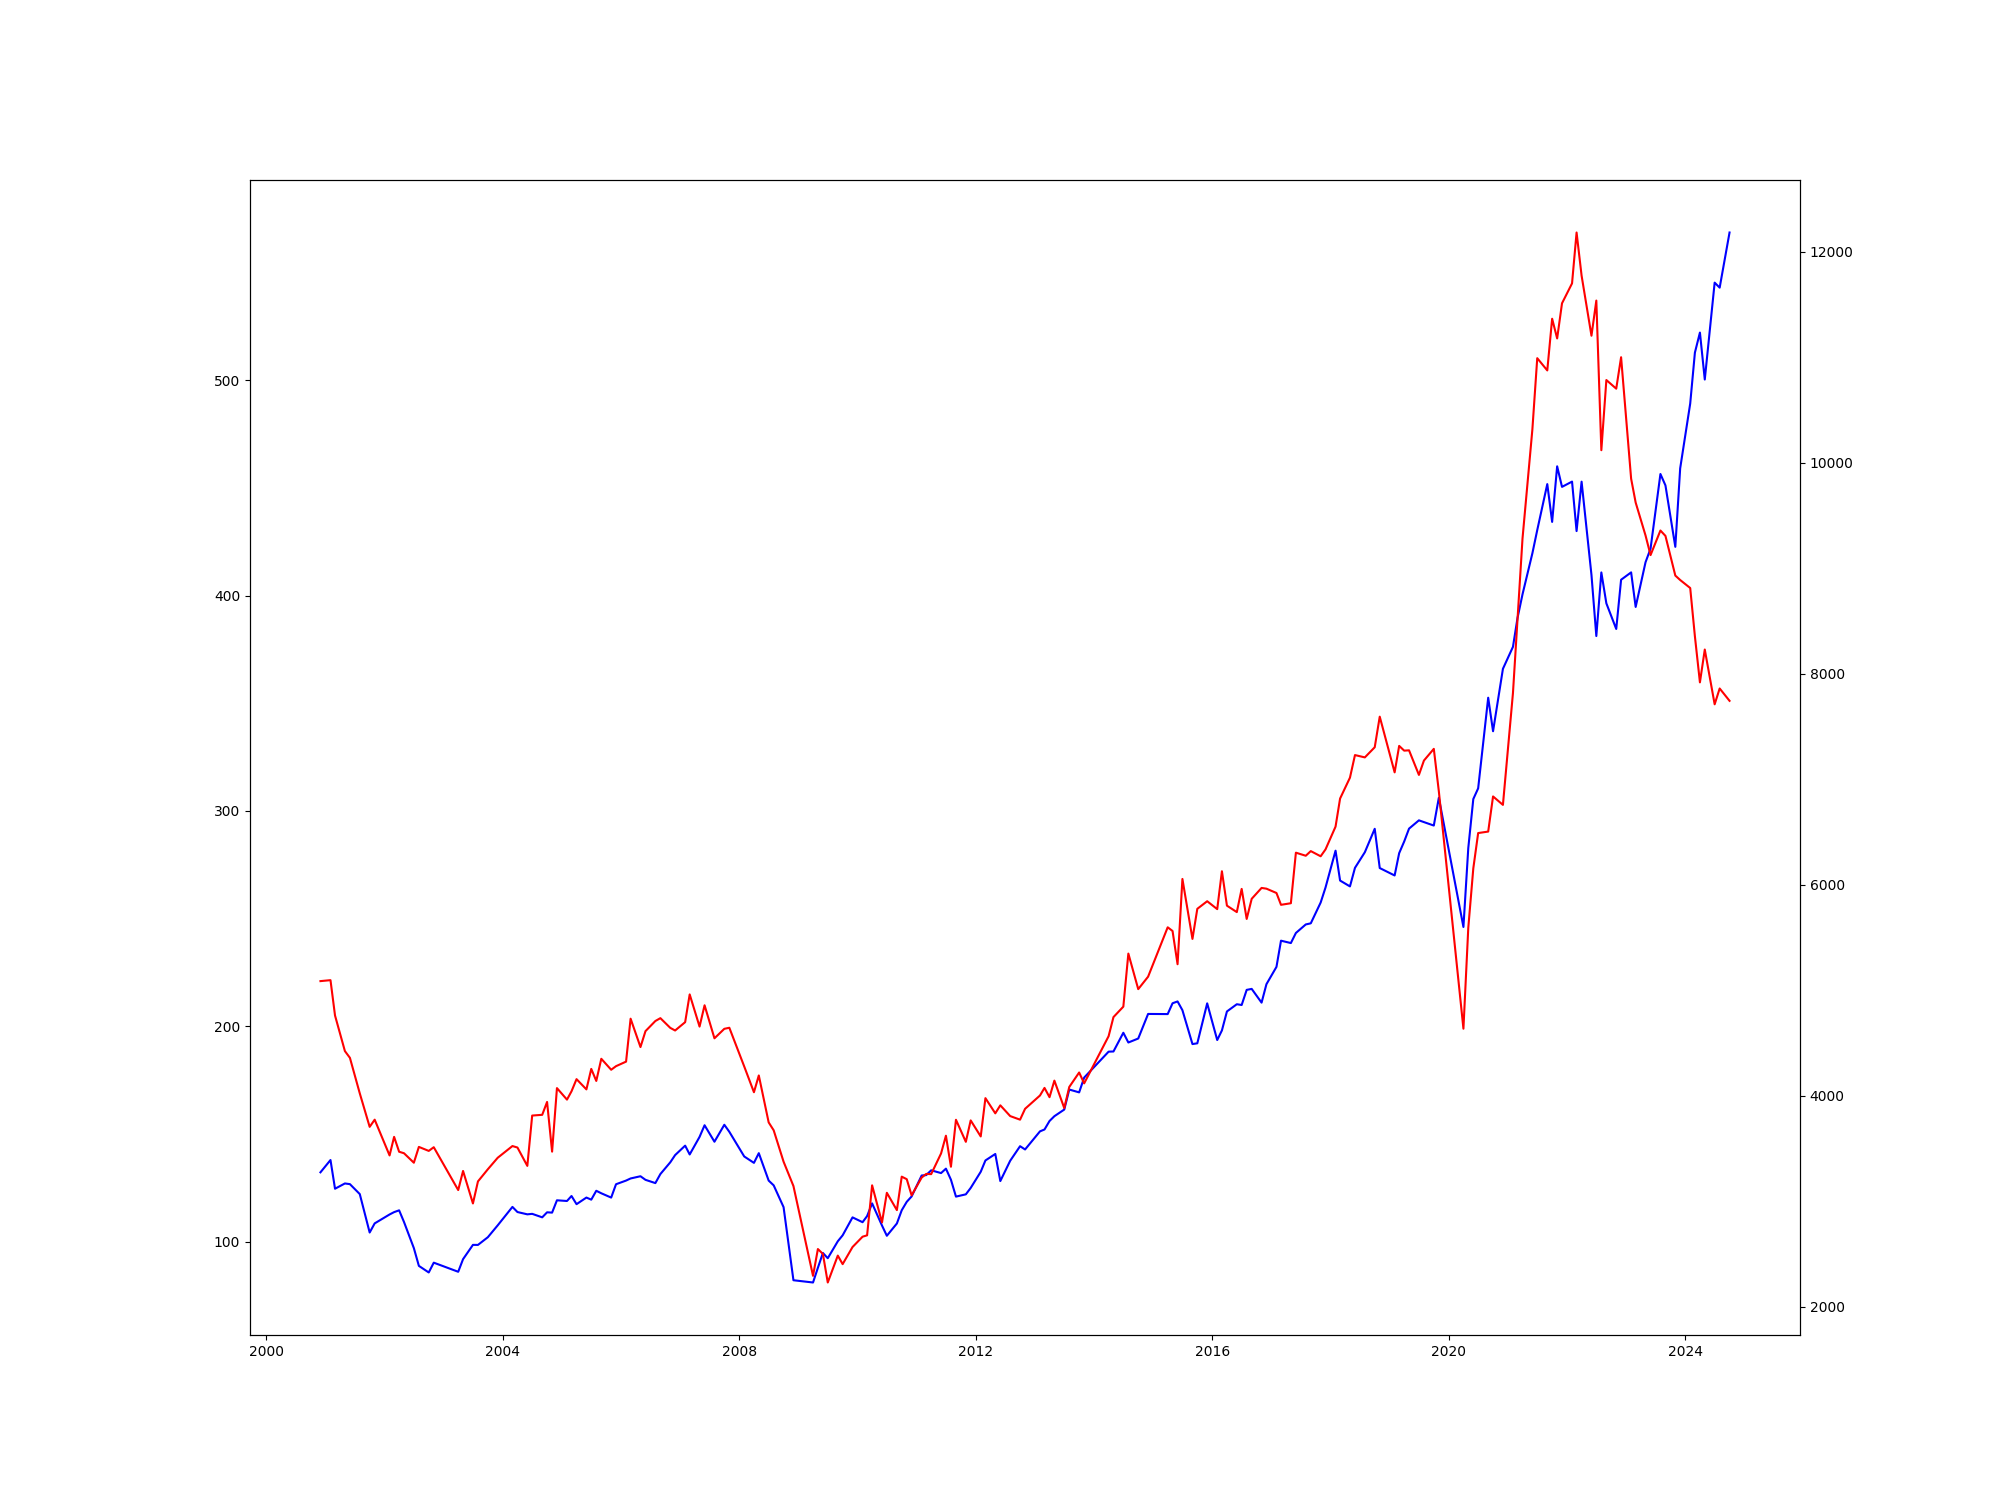
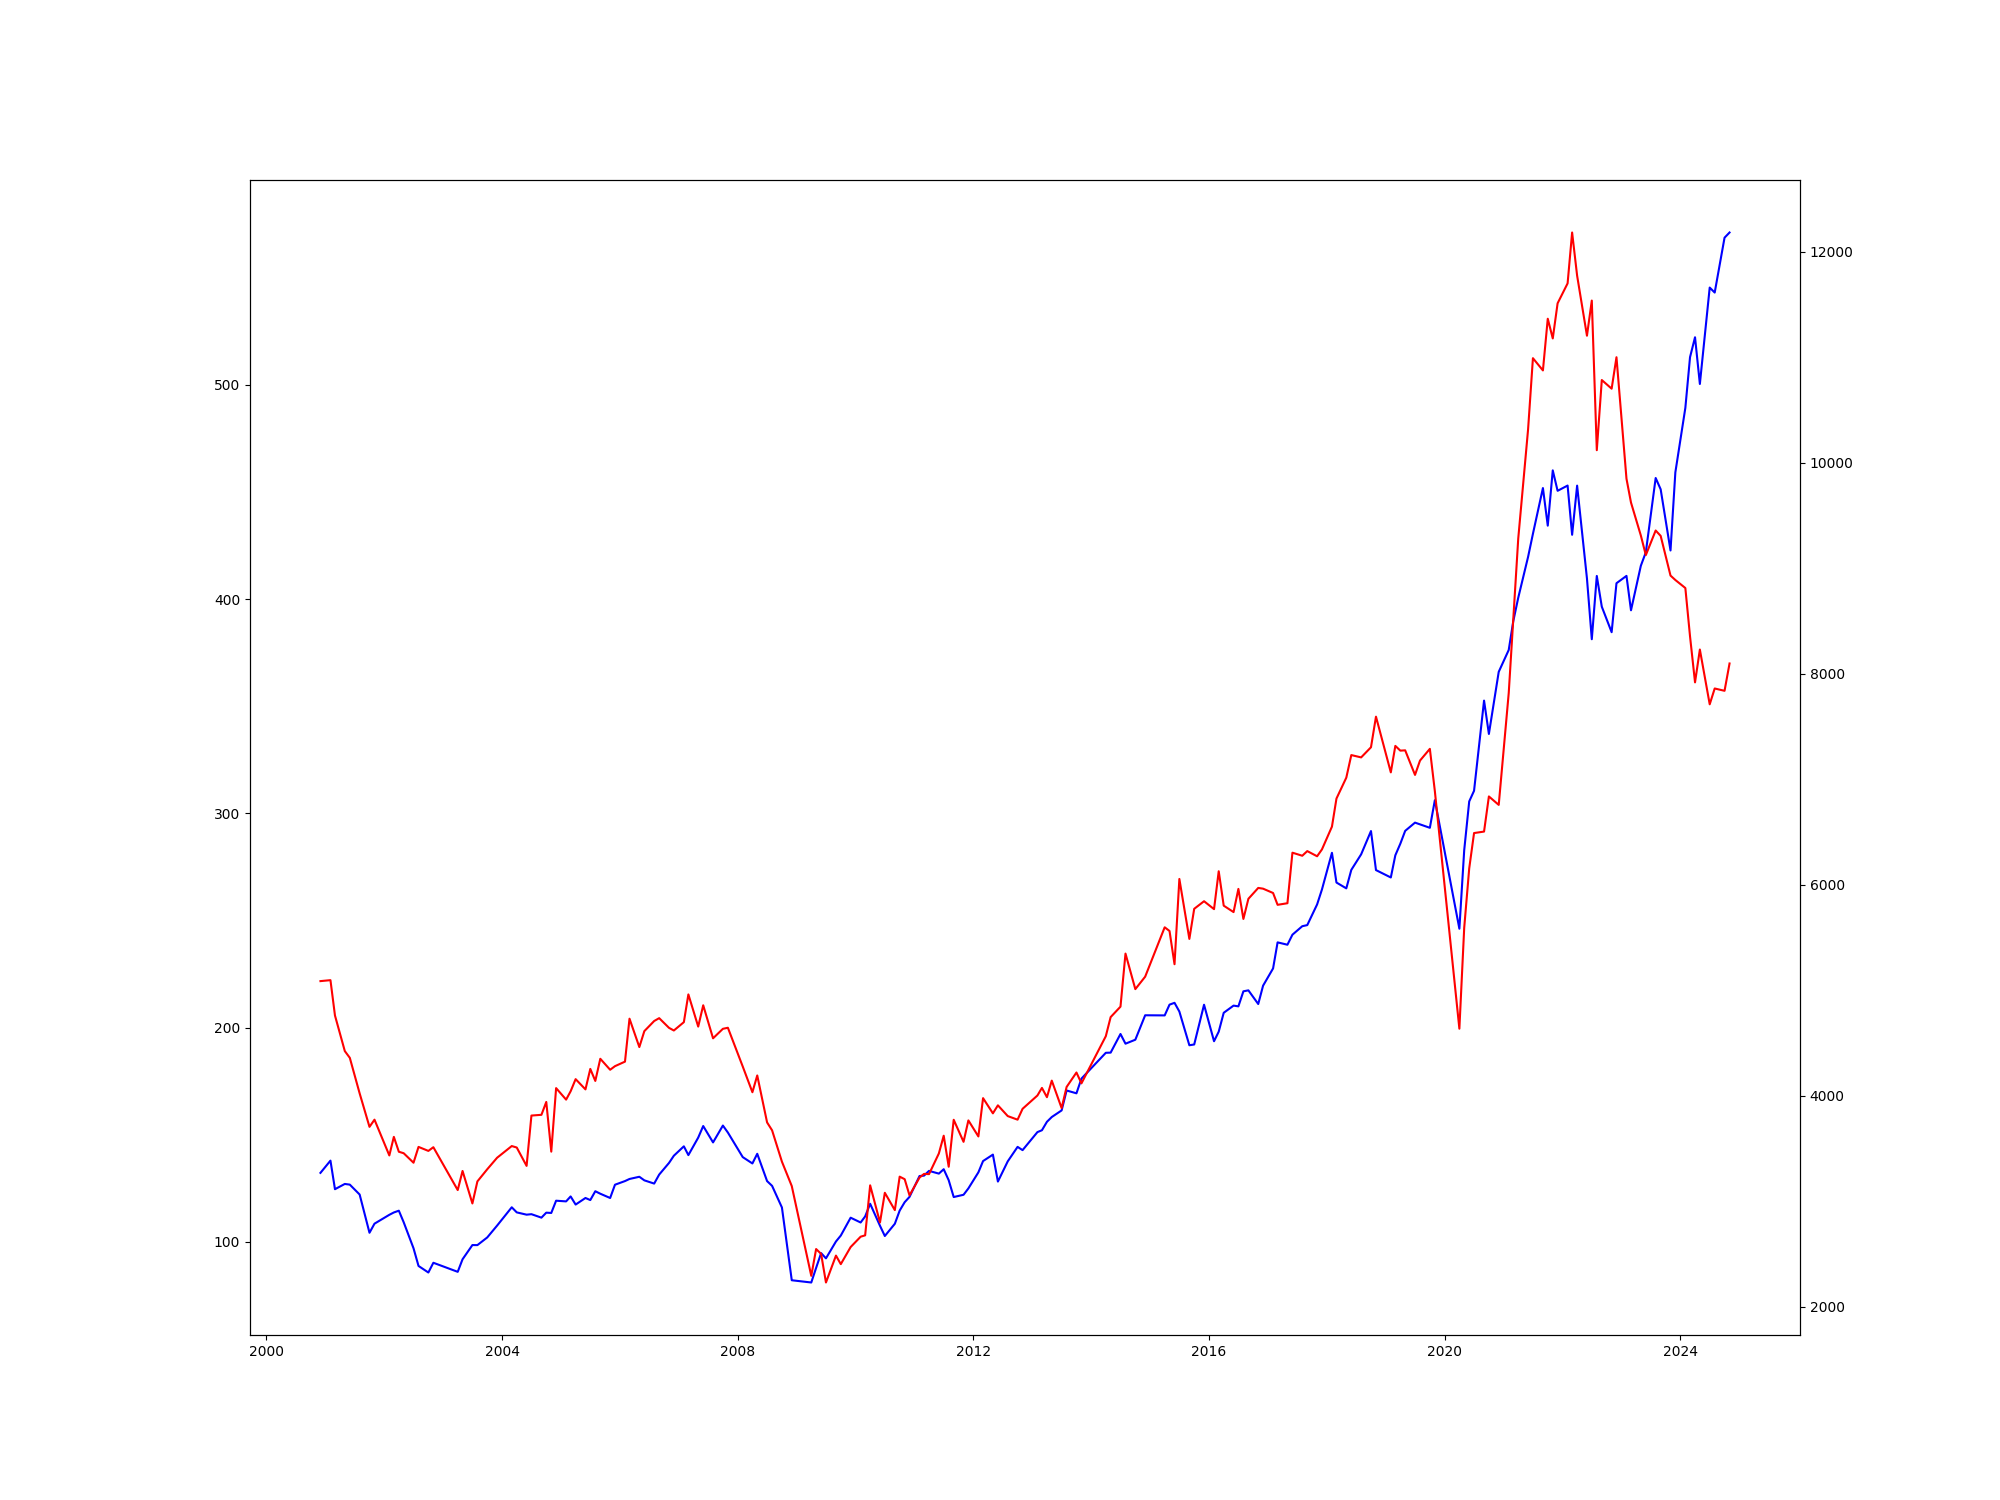
save for logging purpose

diff --git a/short_volume.py b/short_volume.py
@@ -1,0 +1,103 @@
+import os
+import requests
+import json
+import matplotlib.pyplot as plt
+from datetime import datetime, timedelta
+
+import yfinance as yf
+
+DIR_SHORT_VOLUME = "short_volume"
+
+
+def overlap_price_shortvolume(ticker: str, start_date: str, end_date: str):
+    start_date = datetime.strptime(start_date, "%Y%m%d")
+    end_date = datetime.strptime(end_date, "%Y%m%d")
+
+    stock_data = yf.download(ticker, start=start_date, end=end_date)
+    list_date_price = [e.strftime("%Y%m%d") for e in stock_data["Close"].keys()]
+    list_close_price = list(stock_data["Close"].values)
+
+    list_ratio = []
+    list_date = []
+    for date in list_date_price:
+        path_short_volume = os.path.join(DIR_SHORT_VOLUME, f"{date}.txt")
+        if not os.path.exists(path_short_volume):
+            list_ratio.append(-1)
+            list_date.append(date)
+            continue
+
+        with open(path_short_volume) as f:
+            lines = f.readlines()
+
+        for line in lines:
+            chunks = line.split("|")
+            if chunks[1].lower() == ticker.lower():
+                short_volume = chunks[2]
+                total_volume = chunks[4]
+                ratio = 1.0 * float(short_volume) / float(total_volume)
+                break
+
+        list_ratio.append(ratio)
+        list_date.append(date)
+
+    fig, ax1 = plt.subplots()
+
+    ax1.plot(list_date_price, list_close_price, "b-")
+    ax1.set_xlabel("dates")
+    ax1.set_ylabel("price", color="b")
+    ax1.tick_params(axis="y", labelcolor="b")
+    xtick_positions = [5 * i for i in range(len(list_date_price) // 5)]
+    ax1.set_xticks(xtick_positions)
+    ax1.set_xticklabels(xtick_positions, rotation=90)
+    ax1.set_xticklabels([list_date_price[i] for i in xtick_positions], rotation=90)
+
+    ax2 = ax1.twinx()
+    ax2.plot(list_date, list_ratio, "r-")
+    ax2.set_ylabel("short ratio (short volume / entire volume)", color="r")
+    ax2.tick_params(axis="y", labelcolor="r")
+
+    plt.savefig("DJT.png", bbox_inches="tight")
+
+
+def get_date_list(start_date: datetime, end_date: datetime):
+    date_list = []
+    current_date = start_date
+    while current_date <= end_date:
+        date_list.append(current_date.strftime("%Y%m%d"))
+        current_date += timedelta(days=1)
+    return date_list
+
+
+def save_short_volume(start_date: str, end_date: str, savedir: str):
+    start_date = datetime.strptime(start_date, "%Y%m%d")
+    end_date = datetime.strptime(end_date, "%Y%m%d")
+    list_date_str = get_date_list(start_date, end_date)
+
+    os.makedirs(savedir, exist_ok=True)
+
+    for date_str in list_date_str:
+        path_save = os.path.join(savedir, f"{date_str}.txt")
+        if os.path.exists(path_save):
+            continue
+
+        response = requests.get(
+            f"https://cdn.finra.org/equity/regsho/daily/CNMSshvol{date_str}.txt"
+        )
+
+        if response.status_code == 200:
+            with open(path_save, "w") as f:
+                f.write(response.text)
+
+
+def read_json(path):
+    with open(path, "r") as f:
+        content = json.load(f)
+    return content
+
+
+if __name__ == "__main__":
+    start_date = "20240327"
+    today = datetime.today().strftime("%Y%m%d")
+    save_short_volume(start_date=start_date, end_date=today, savedir=DIR_SHORT_VOLUME)
+
+    overlap_price_shortvolume("DJT", start_date, today)

diff --git a/utils.py b/utils.py
@@ -1,6 +1,5 @@
 from typing import Tuple, List, Dict, Iterable, Optional
 from datetime import datetime, timedelta
-from collections import defaultdict
 import os
 import ssl
 import shutil
@@ -9,7 +8,6 @@ from io import BytesIO
 
 import numpy as np
 import scipy
-import scipy.stats
 import seaborn as sns
 import pandas as pd
 import matplotlib.pyplot as plt
@@ -2309,7 +2307,6 @@ def plot_price_divided_by_ma_2d(
 
         plane = np.array(plane)
         plane[np.isnan(plane)] = 1
-
         plt.close()
         plt.plot(figsize=(16, 16))
         plt.imshow(plane, cmap="viridis", interpolation="nearest", aspect="auto")
@@ -2318,6 +2315,46 @@ def plot_price_divided_by_ma_2d(
         plt.xlabel("time")
         plt.ylabel("window size")
         plt.savefig(f"figures/price_ratio_2d_plane_{ticker}.png")
+
+        size = 100
+        conv_filter = np.ones((size, size)) / size**2
+        convolved_plane = scipy.ndimage.convolve(
+            plane, conv_filter, mode="nearest"
+        )
+        plt.close()
+        plt.plot(figsize=(16, 16))
+        plt.imshow(
+            convolved_plane,
+            cmap="viridis",
+            interpolation="nearest",
+            aspect="auto",
+        )
+        plt.colorbar()
+        plt.title("2D plot of price divided by moving average")
+        plt.xlabel("time")
+        plt.ylabel("window size")
+        plt.savefig(f"figures/price_ratio_2d_plane_{ticker}_smoothed.png")
+
+        size = 20
+        step_filter = np.ones((size, size))
+        step_filter[:, size // 2 :] = -1
+        sobel_convolved_plane = scipy.ndimage.convolve(
+            convolved_plane, step_filter, mode="nearest"
+        )
+        sobel_convolved_plane[sobel_convolved_plane < 0] = 0
+        plt.close()
+        plt.plot(figsize=(16, 16))
+        plt.imshow(
+            sobel_convolved_plane,
+            cmap="viridis",
+            interpolation="nearest",
+            aspect="auto",
+        )
+        plt.colorbar()
+        plt.title("2D plot of price divided by moving average")
+        plt.xlabel("time")
+        plt.ylabel("window size")
+        plt.savefig(f"figures/price_ratio_2d_plane_{ticker}_step.png")
 
 
 def plot_price_divided_by_ma_3d(
@@ -2391,3 +2428,11 @@ def plot_density_function(
         plt.xlabel("Price Ratio")
 
         plt.savefig(f"figures/price_ratio_density_function_{ticker}.png")
+
+
+def warnings():
+    list_warning = [
+        "Never trade at premarket or postmarket",
+        "Bet size should be 1/64, 1/32, ..., 1/2",
+    ]
+    return "".join([f"({i+1}) {c}.\n" for i, c in enumerate(list_warning)])

diff --git a/plot.py b/plot.py
@@ -14,6 +14,7 @@ from utils import (
     plot_rebalancing_backtest,
     plot_portfolio_via_sampling,
     plot_sandp_divided_by_m2,
+    plot_sandp_divided_by_gdp,
     plot_nasdaq_divided_by_m2,
     plot_nasdaq_divided_by_gdp,
     plot_sandp_correlation_by_date,
@@ -45,9 +46,7 @@ if __name__ == "__main__":
     # plot_sandp_correlation_by_date("1900-01-01")
     # plot_SP500_Nasdaq(start_date="1900-01-01")
     # plot_price_divided_by_ma(start_date="1900-04-01")
-    # plot_price_divided_by_ma_2d(start_date="1900-04-01")
-    plot_price_divided_by_ma_3d(start_date="1900-04-01")
-    exit(1)
+    # plot_price_divided_by_ma_3d(start_date="1900-04-01")
     # plot_density_function(start_date="1900-04-01")
     # plot_lppls(start_date="1900-01-01")
 
@@ -67,14 +66,17 @@ if __name__ == "__main__":
     plot_return_volume_leverage_with_ma(
         start_date="2012-01-01"
     )  # find bottom by volume
+    plot_price_divided_by_ma_2d(start_date="1900-04-01")
     plot_predict_fourier(
         regression_start_date="1900-04-01",
     )
+    exit(1)
     plot_predict_hmm(
         regression_start_date="1900-04-01",
     )
     plot_nasdaq_divided_by_gdp(start_date="1900-01-01")
     plot_nasdaq_divided_by_m2(start_date="1900-01-01")
+    plot_sandp_divided_by_gdp(start_date="1900-01-01")
     plot_sandp_divided_by_m2(start_date="1900-01-01")
     exit(1)
 

diff --git a/portfolio.py b/portfolio.py
@@ -1,11 +1,13 @@
 from utils import (
+    warnings,
     write_new_portfolio,
     compute_budge,
     compute_bet_ratio,
 )
 
 if __name__ == "__main__":
-    print("(prob_win, bet_ratio): ", compute_bet_ratio("1900-01-01"))
+    print(warnings())
+    print("(profit=0.1, loss=0.5)", compute_bet_ratio("1900-01-01"))
     exit(1)
     write_new_portfolio(rebalacing_period=10, path_savefile="portfolio.json")
     print(compute_budge(total_budget=5_000_000 / 1450, path_portfolio="portfolio.json"))
